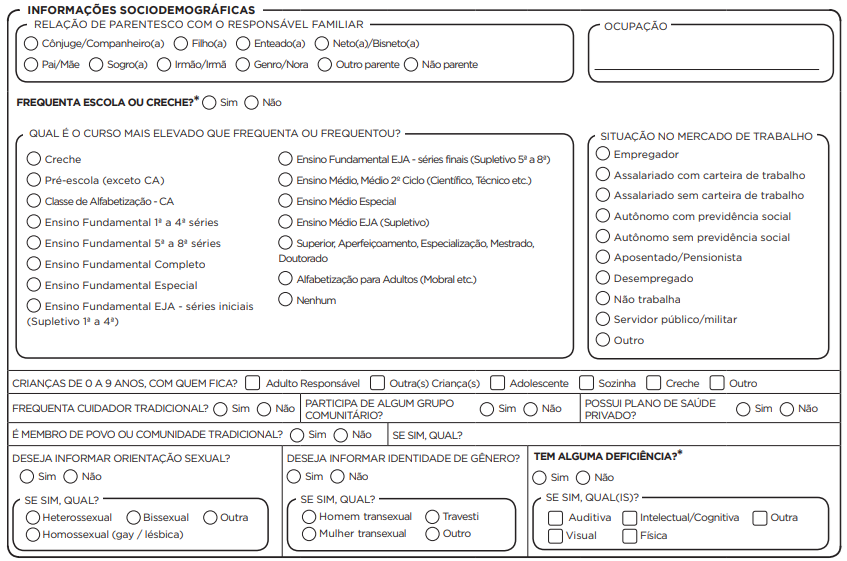
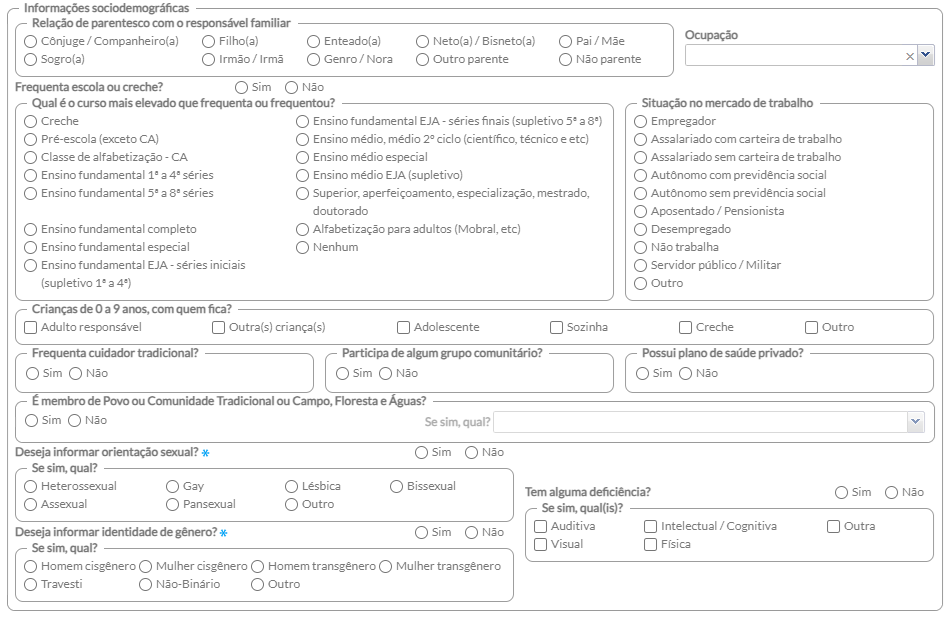
alterações atualizações 5.2

Changed region(s): [[0.0, 0.0, 1.0, 1.0]]

diff --git a/docs/PEC/PEC_10_acompanhamento_condicoes_saude.md b/docs/PEC/PEC_10_acompanhamento_condicoes_saude.md
@@ -93,6 +93,8 @@ Os problemas ou condições deste bloco representam um conjunto de CIAP2 e CID10
 {: .nota }
 Atente para a opção de buscar apenas problemas/condições ativas na lista de problemas e condições do PEC. Essa função permite que os profissionais possam visualizar apenas a lista de cidadão com problemas ativos na lista de problemas e condições, e desconsiderar os problemas latentes ou resolvidos.
 
+A função "Buscar apenas problemas / condições ativas na lista de problemas e condições" é marcada de forma padrão, caso necessite, poderá ser desmarcada.
+
 ## 10.1.3 Filtro sexo ou identidade de gênero
 
 Neste bloco é possível selecionar o sexo (feminino ou masculino, ou ambos) ou ainda selecionar a identidade de gênero (mulher cisgênero, mulher transgênero, travesti, homem cisgênero, homem transgênero, não-binário, transgênero,outro).
@@ -125,15 +127,23 @@ Ainda, será apresentado o botão ![](media/pec_image843.png) para gerar os rela
 
 Uma das atividades da Atenção Primária à Saúde é realizar o acompanhamento das condições de saúde dos cidadãos vinculados às Equipes da APS. Esta ação é importante e demanda muita organização por parte da equipe. Uma forma facilitada de realizar o acompanhamento das situações de saúde é por meio de relatórios ou listas de cidadãos que possuem determinada condição de saúde, extraídos a partir do sistema de informação utilizado pela equipe.
 
-Figura 10.2 - Tela do Relatórios exibida 
-![](media/pec_image983.png)
-Fonte: SAPS/MS.
+Para realizar a busca de cidadãos vinculados, deverá selecionar a "Faixa etária" que sedeja consultar. Também poderá optar fazer a busca, caso deseje, com o filtro sexo e identidade de gênero.
+
+![](media/pec_image1127.png)
+
 
 O painel de Acompanhamento de condições de saúde busca apresentar de forma clara a lista de cidadão vinculados à equipe de APS que possuem determinada situação de saúde.
 
+Figura 10.2 - Tela do Relatórios exibida 
+![](media/pec_image1128.png)
+Fonte: SAPS/MS.
+
+Após gerar o relatório, será possível exportá-lo ou imprimir, conforme imagem.
+
+![](media/pec_image1129.png)
 
 {: .nota }
-Somente são apresentados neste painel cidadãos que estão vinculados à equipe de APS. A busca retorna apenas cidadãos que possuem todas as condições selecionadas e ativas na lista de problemas ou avaliadas no SOAP e na ficha de atendimento individual.
+São apresentados apenas os cidadãos vinculados a alguma equipe/INE. A origem das informações são as Fichas de cadastro individual, Fichas de cadastro domiciliar e territorial do CDS e os cadastros do módulo cidadão do PEC.
 
 ## Acompanhamento do território
 

diff --git a/docs/PEC/PEC_04_cidadao.md b/docs/PEC/PEC_04_cidadao.md
@@ -318,6 +318,14 @@ Figura 4.15 - Tela de Cadastro do cidadão - Informações Complementares
 
 Fonte: SAPS/MS.
 
+Ao selecionar que deseja informar a orientação sexual deverá escolher entre as opções confome imagem abaixo.
+
+![](media/pec_cidadao.png)
+
+Caso o cidadão escolha informar sua identidade de gênero, o profissional deverá selecionar uma das opções conforme opções da imagem.
+
+![](media/pec_cidadao1.png)
+
 ## 4.5.6 Compartilhamento de prontuário
 
 Este recurso permite ao cidadão optar pela forma como seus dados clínicos ficam disponíveis para a rede de saúde. Por padrão seus dados são visíveis a todas as UBS de uma mesma instalação, pois otimiza a recuperação de informações clínicas relevantes para o cuidado. Caso o cidadão não concorde, marque a opção "Desativar compartilhamento de prontuário para este cidadão".

diff --git a/docs/PEC/PEC_05_agenda.md b/docs/PEC/PEC_05_agenda.md
@@ -75,6 +75,10 @@ Fonte: SAPS/MS.
 
 ![](media/pec_image280.png)
 
+Ao selecionar "salvar" o download do comprovante de agendamento será realizado de forma automática. Caso não queira o comprovante, poderá desmarcar a opção "imprimir comprovante de agendamento".
+
+![](media/pec_image1126.png)
+
 {: .nota }
 Quando a funcionalidade do Agendamento Online está ativada, todo agendamento salvo no módulo de Agenda do PEC é enviado para o servidor de agendamento online, que dispara uma notificação "*push"* com informações relacionadas a este agendamento para o aplicativo "ConecteSUS". Neste caso, como o agendamento foi realizado presencialmente na UBS, não há restrição em relação ao cidadão pertencer ao território de referência da equipe de atenção básica.
 

diff --git a/docs/PEC/PEC_11_busca_ativa.md b/docs/PEC/PEC_11_busca_ativa.md
@@ -115,3 +115,6 @@ Figura 11.8 - Relatório em CSV
 Fonte: SAPS/MS.
 
 Neste módulo também é possível visualizar o prontuário e as informações do cidadão na listagem de cidadão.
+
+
+A partir da versão 5.2.42 foi realizada a implementação, na Busca ativa de vacinação, da equivalência entre doses do esquema vacinal e doses DU, D e REF, para os imunobiológicos Hepatite A, Febre Amarela, Meningo C e HPV.
